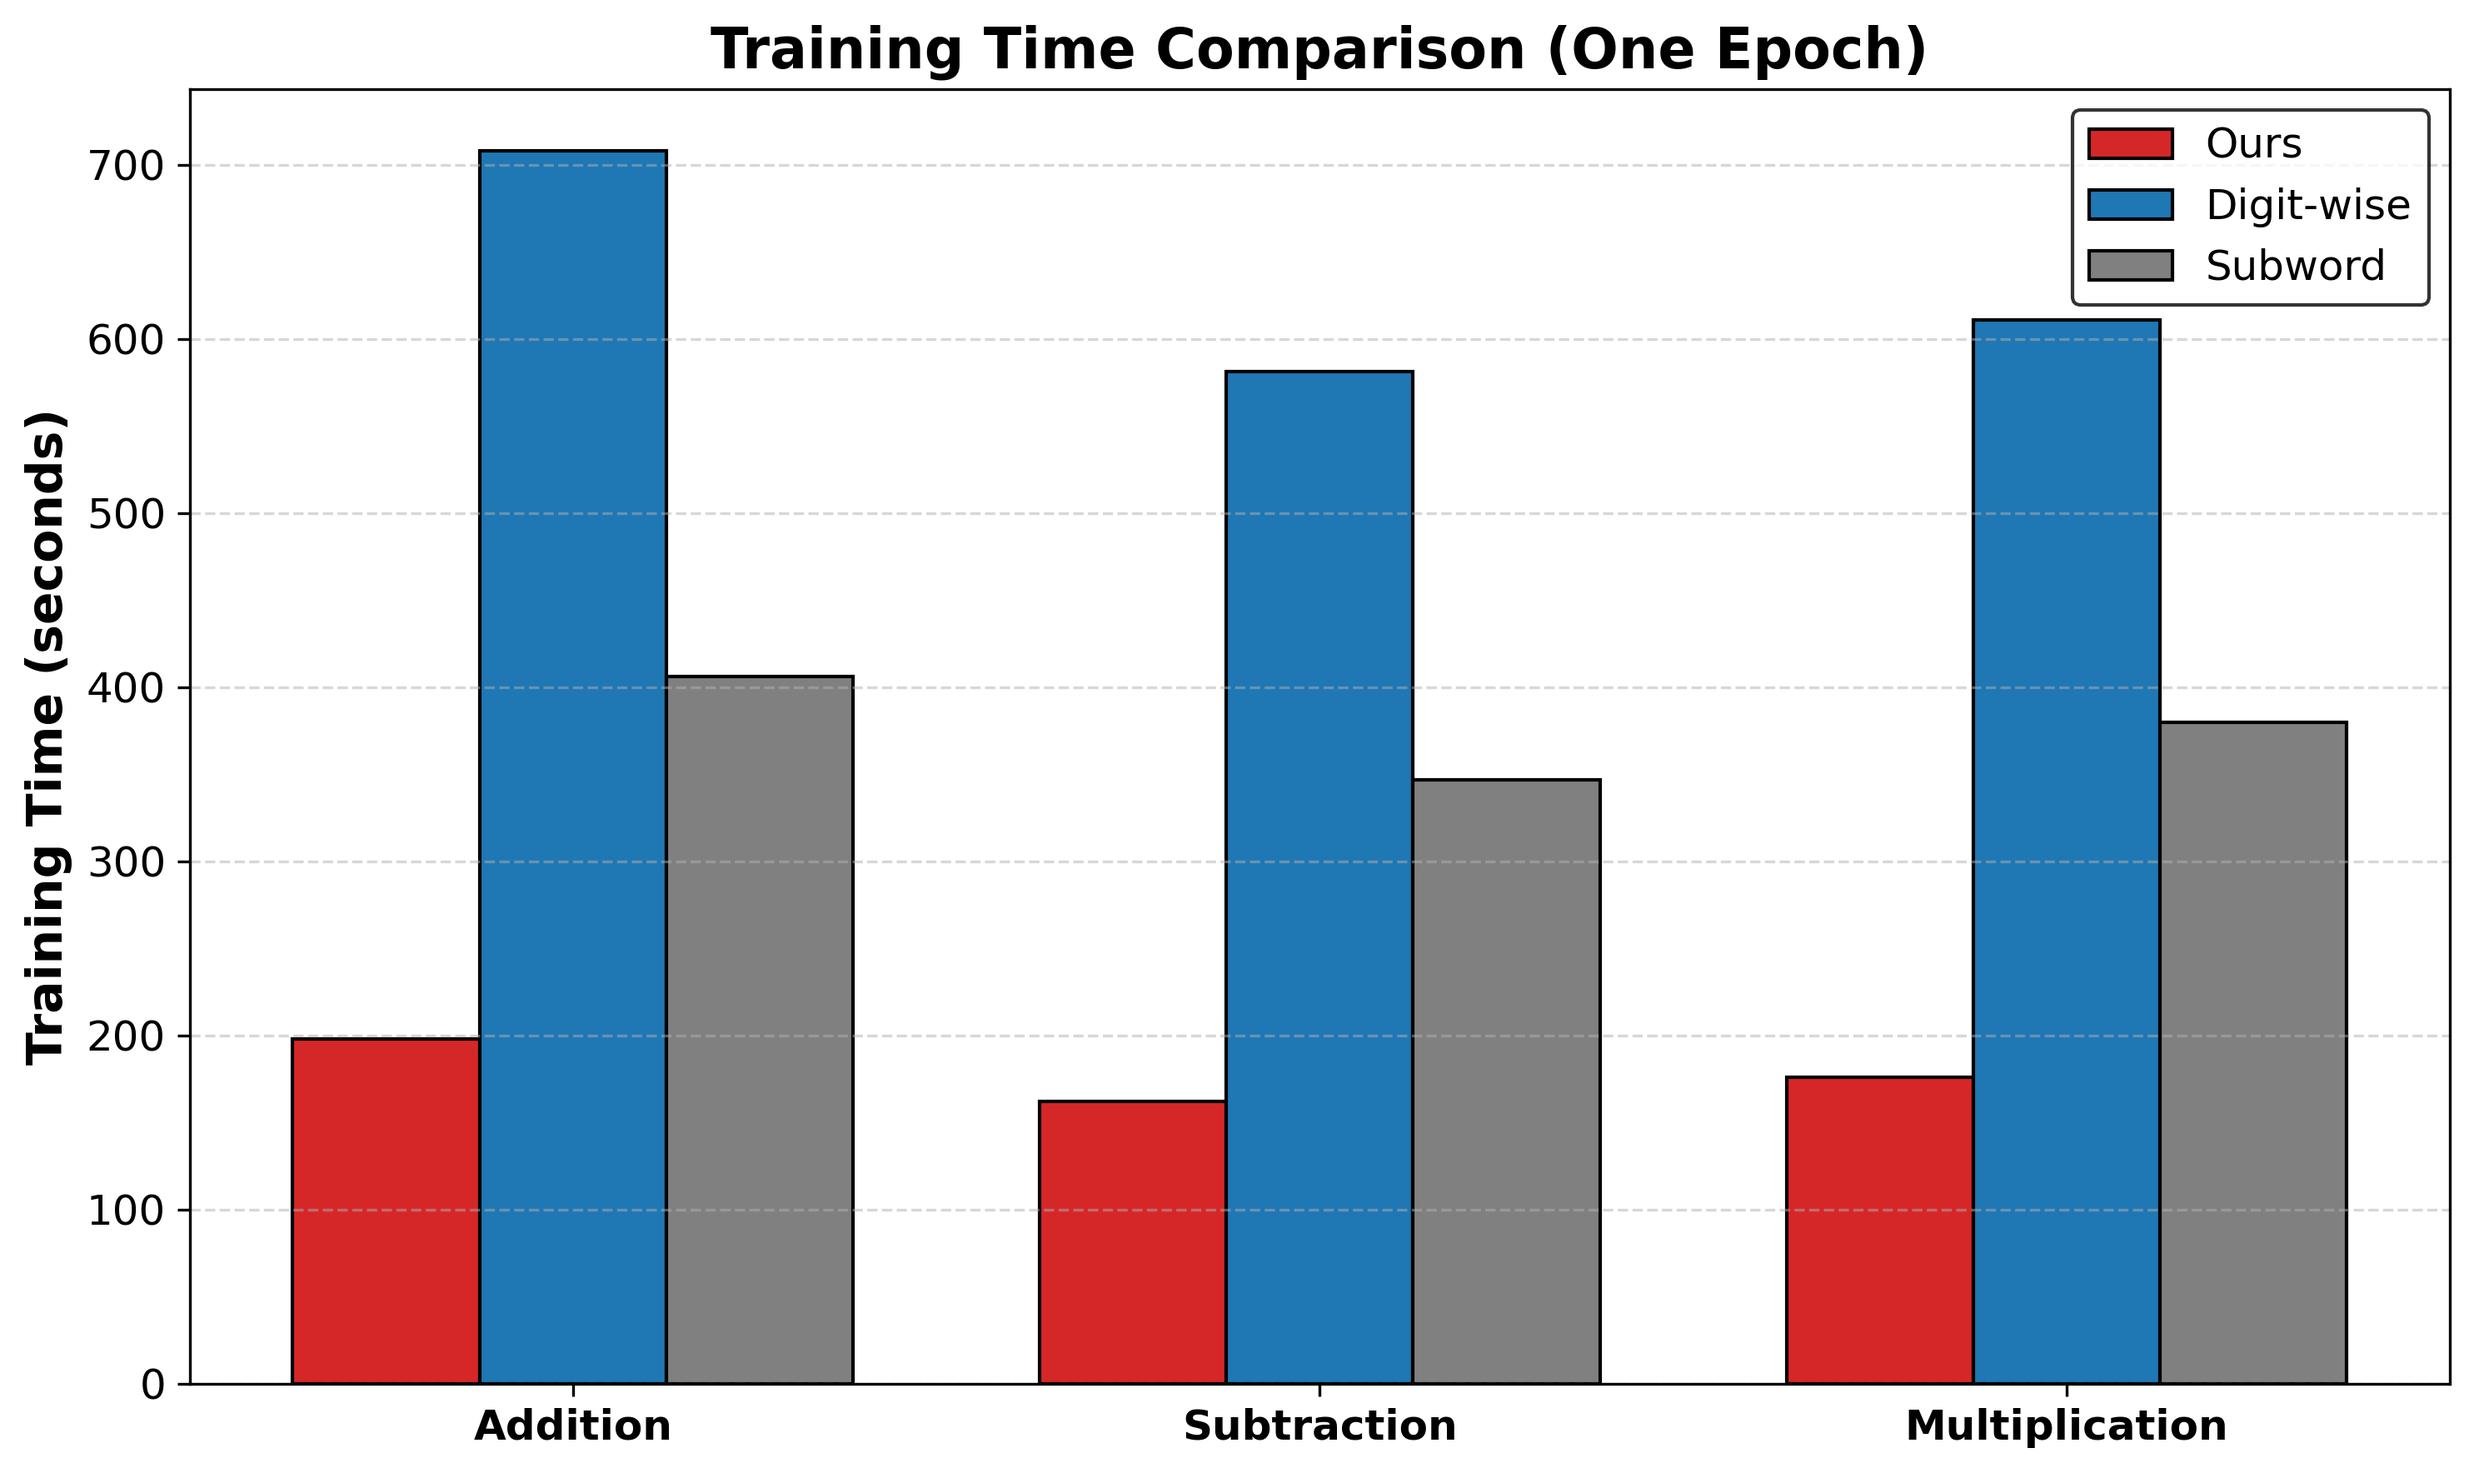
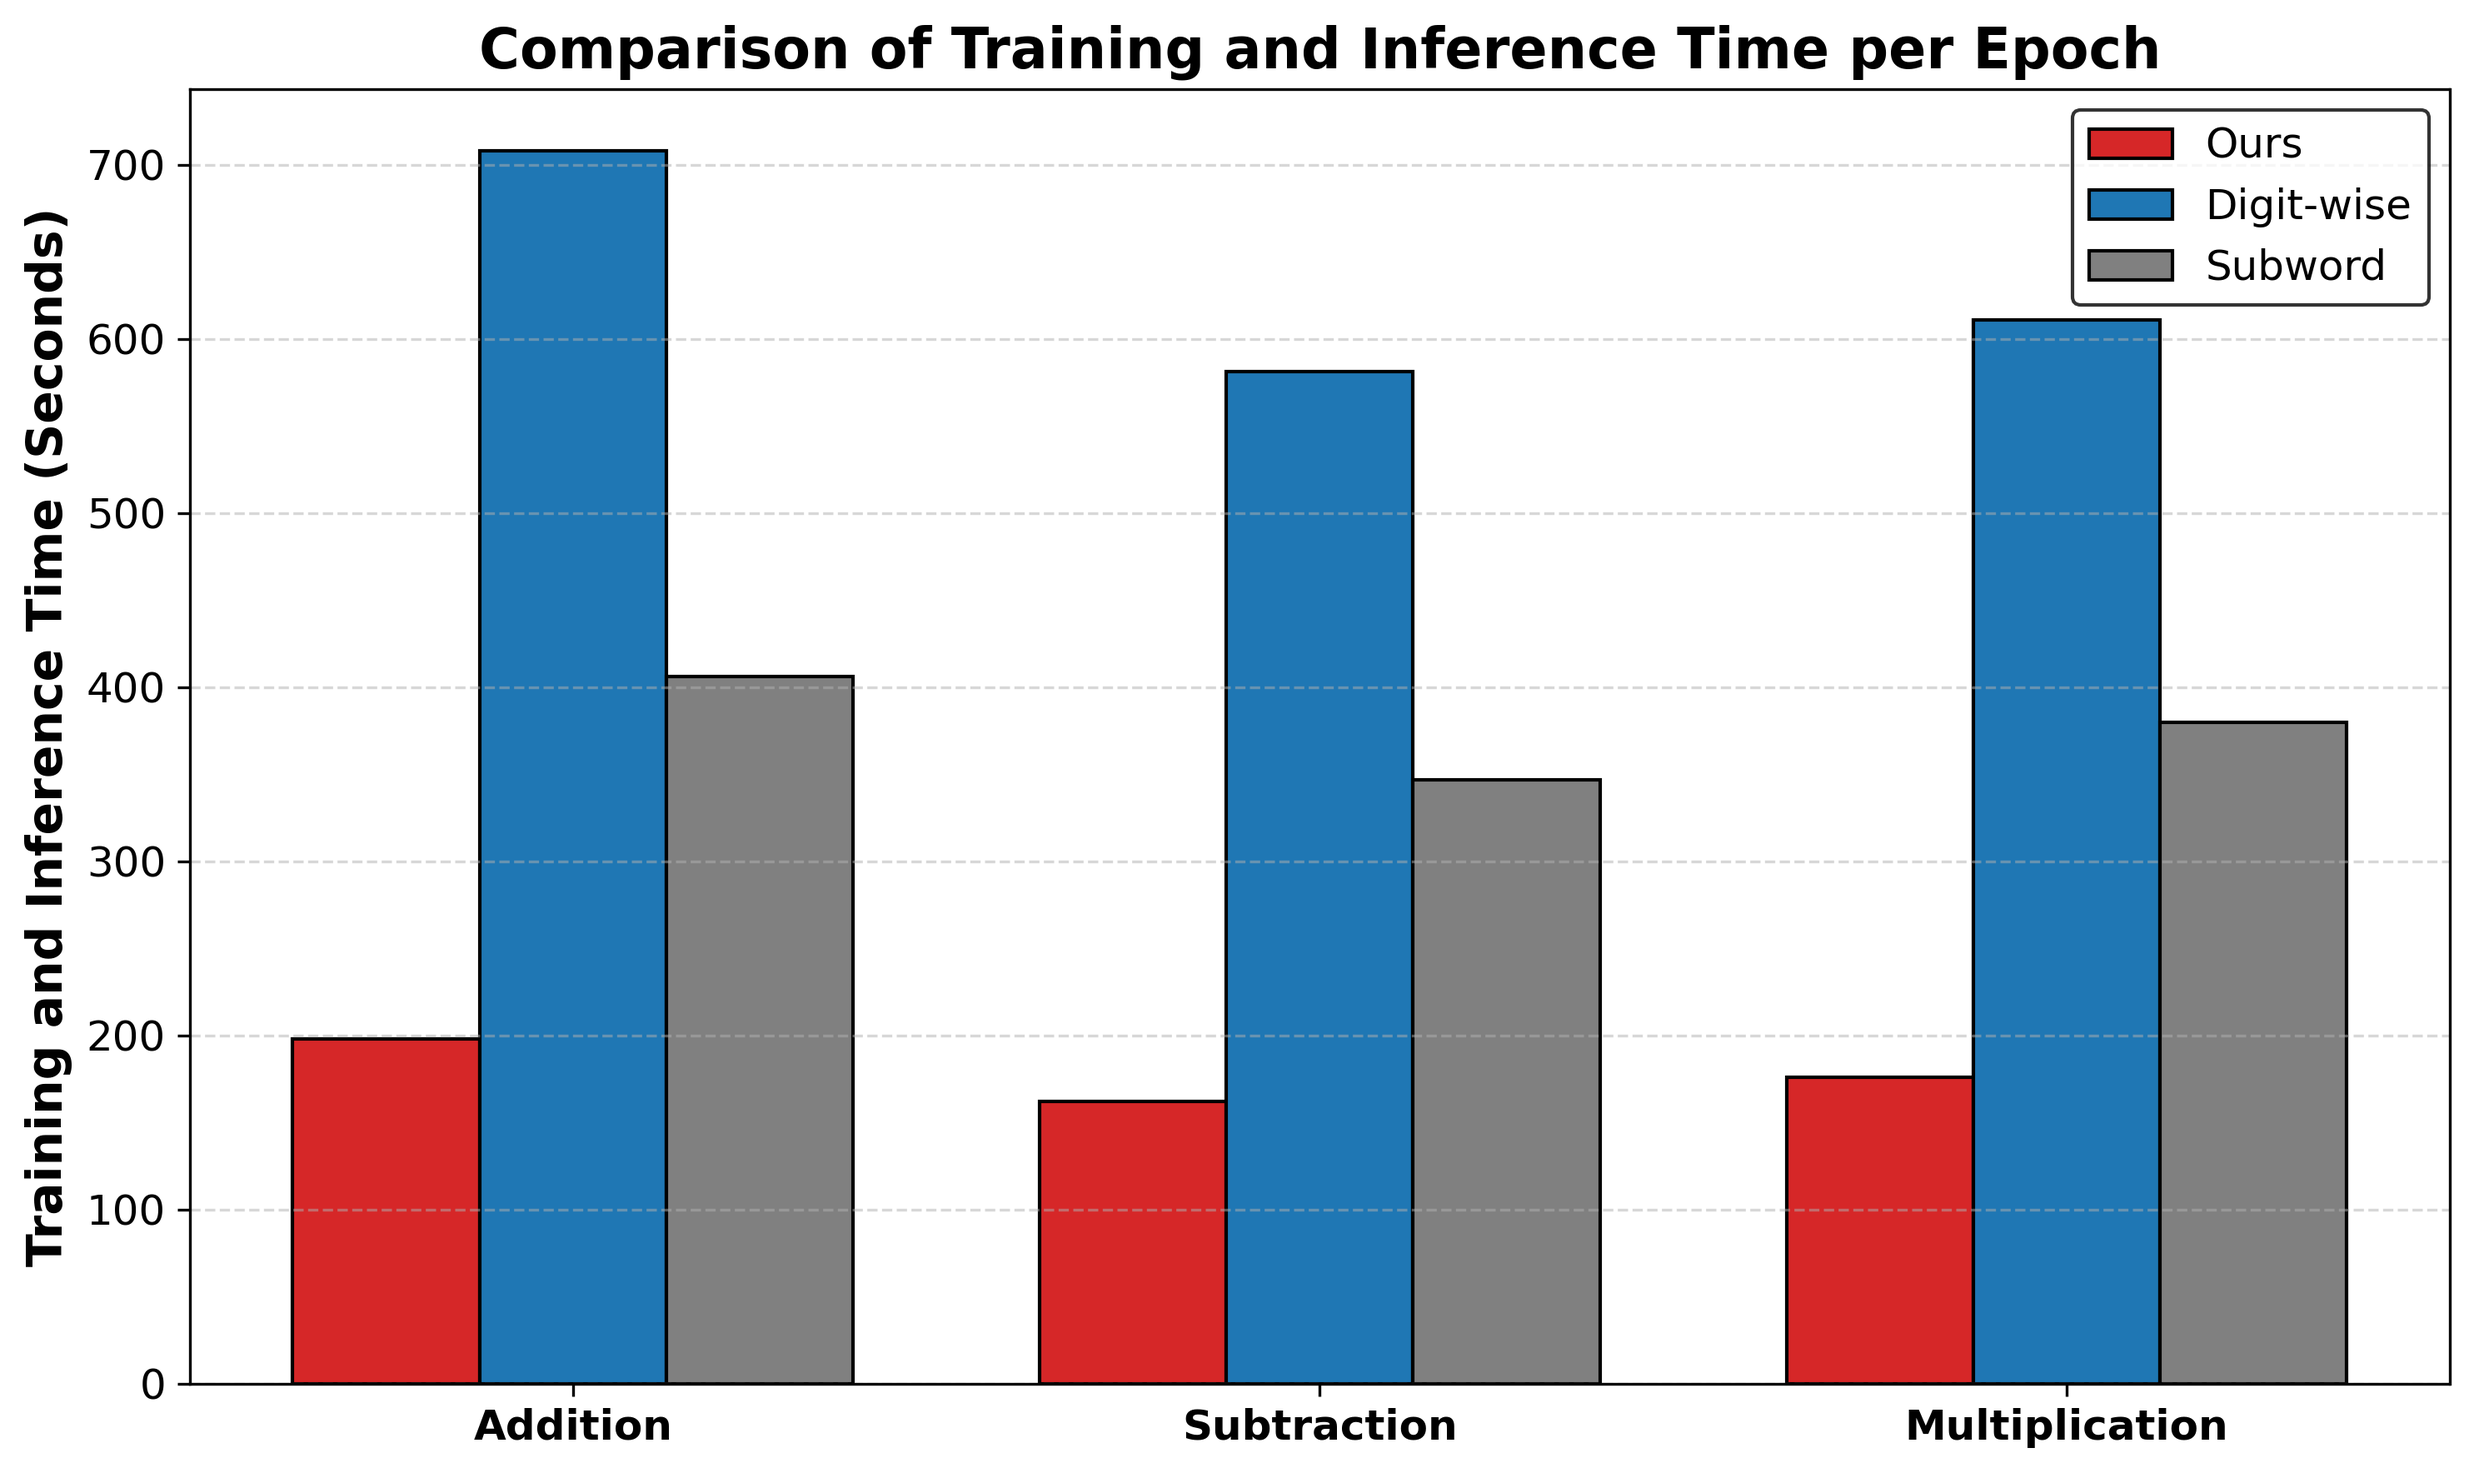
fig

Changed region(s): [[0.1859, 0.0, 0.8673, 0.0622], [0.0, 0.1244, 0.031, 0.871]]

diff --git a/figs/bar_charts.py b/figs/bar_charts.py
@@ -39,8 +39,8 @@ plt.bar(x + width, [train_times[2], train_times_sub[2], train_times_mul[2]], wid
 
 # Formatting
 plt.xticks(x, datasets, fontsize=12, fontweight='bold')
-plt.ylabel("Training Time (seconds)", fontsize=14, fontweight="bold")
-plt.title("Training Time Comparison (One Epoch)", fontsize=16, fontweight="bold")
+plt.ylabel("Training and Inference Time (Seconds)", fontsize=14, fontweight="bold")
+plt.title("Comparison of Training and Inference Time per Epoch", fontsize=16, fontweight="bold")
 plt.legend(fontsize=12, frameon=True, edgecolor='black')
 plt.yticks(fontsize=12)
 plt.grid(axis='y', linestyle='dashed', alpha=0.5)  # Light grid for readability
